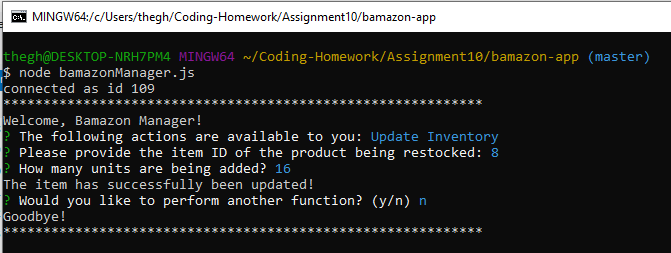
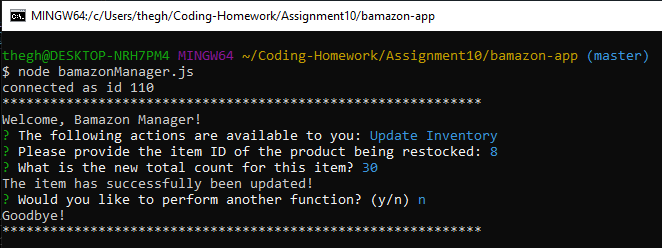
added images to readme for customer app

Changed region(s): [[0.0, 0.0, 1.0, 1.0]]

diff --git a/README.md b/README.md
@@ -21,11 +21,16 @@ Initialize the customer app through the command "node bamazonCustomer.js". A lis
 Initialize the manager app through the command "node bamazonManager.js". A list of possible actions will be presented to you:
     * View Products for Sale - the app will list every available item;
     * View Low Inventory - the app will list all items with a count lower than 5;
-    * Update Inventory - the app will prompt you to provide the item ID of a product being restocked,
-    * Add New Product
+    * Update Inventory - the app will prompt you to provide the item ID of a product being restocked, then to provide the new total number of units;
+    * Add New Product - the app will prompt you to provide the name of the new item being added to the inventory, along with all values required by the schema;
+On completion, you will be prompted to decide if you want to run another action, or disconnect the app.
 
 4. Include screenshots, gifs or videos of the app functioning
 
+![Customer App Command Line](https://raw.githubusercontent.com/jkabigting93/bamazon-app/master/images/customer.PNG)
+![Database before purchase](https://raw.githubusercontent.com/jkabigting93/bamazon-app/master/images/customerDbBefore.PNG)
+![Database after purchase](https://raw.githubusercontent.com/jkabigting93/bamazon-app/master/images/customerDbAfter.PNG)
+The above screenshots show the customer app at work. Note how the first row of the database goes down by 10, just as input into the command line.
 
 
 5. Contain a link to a deployed version of the app
